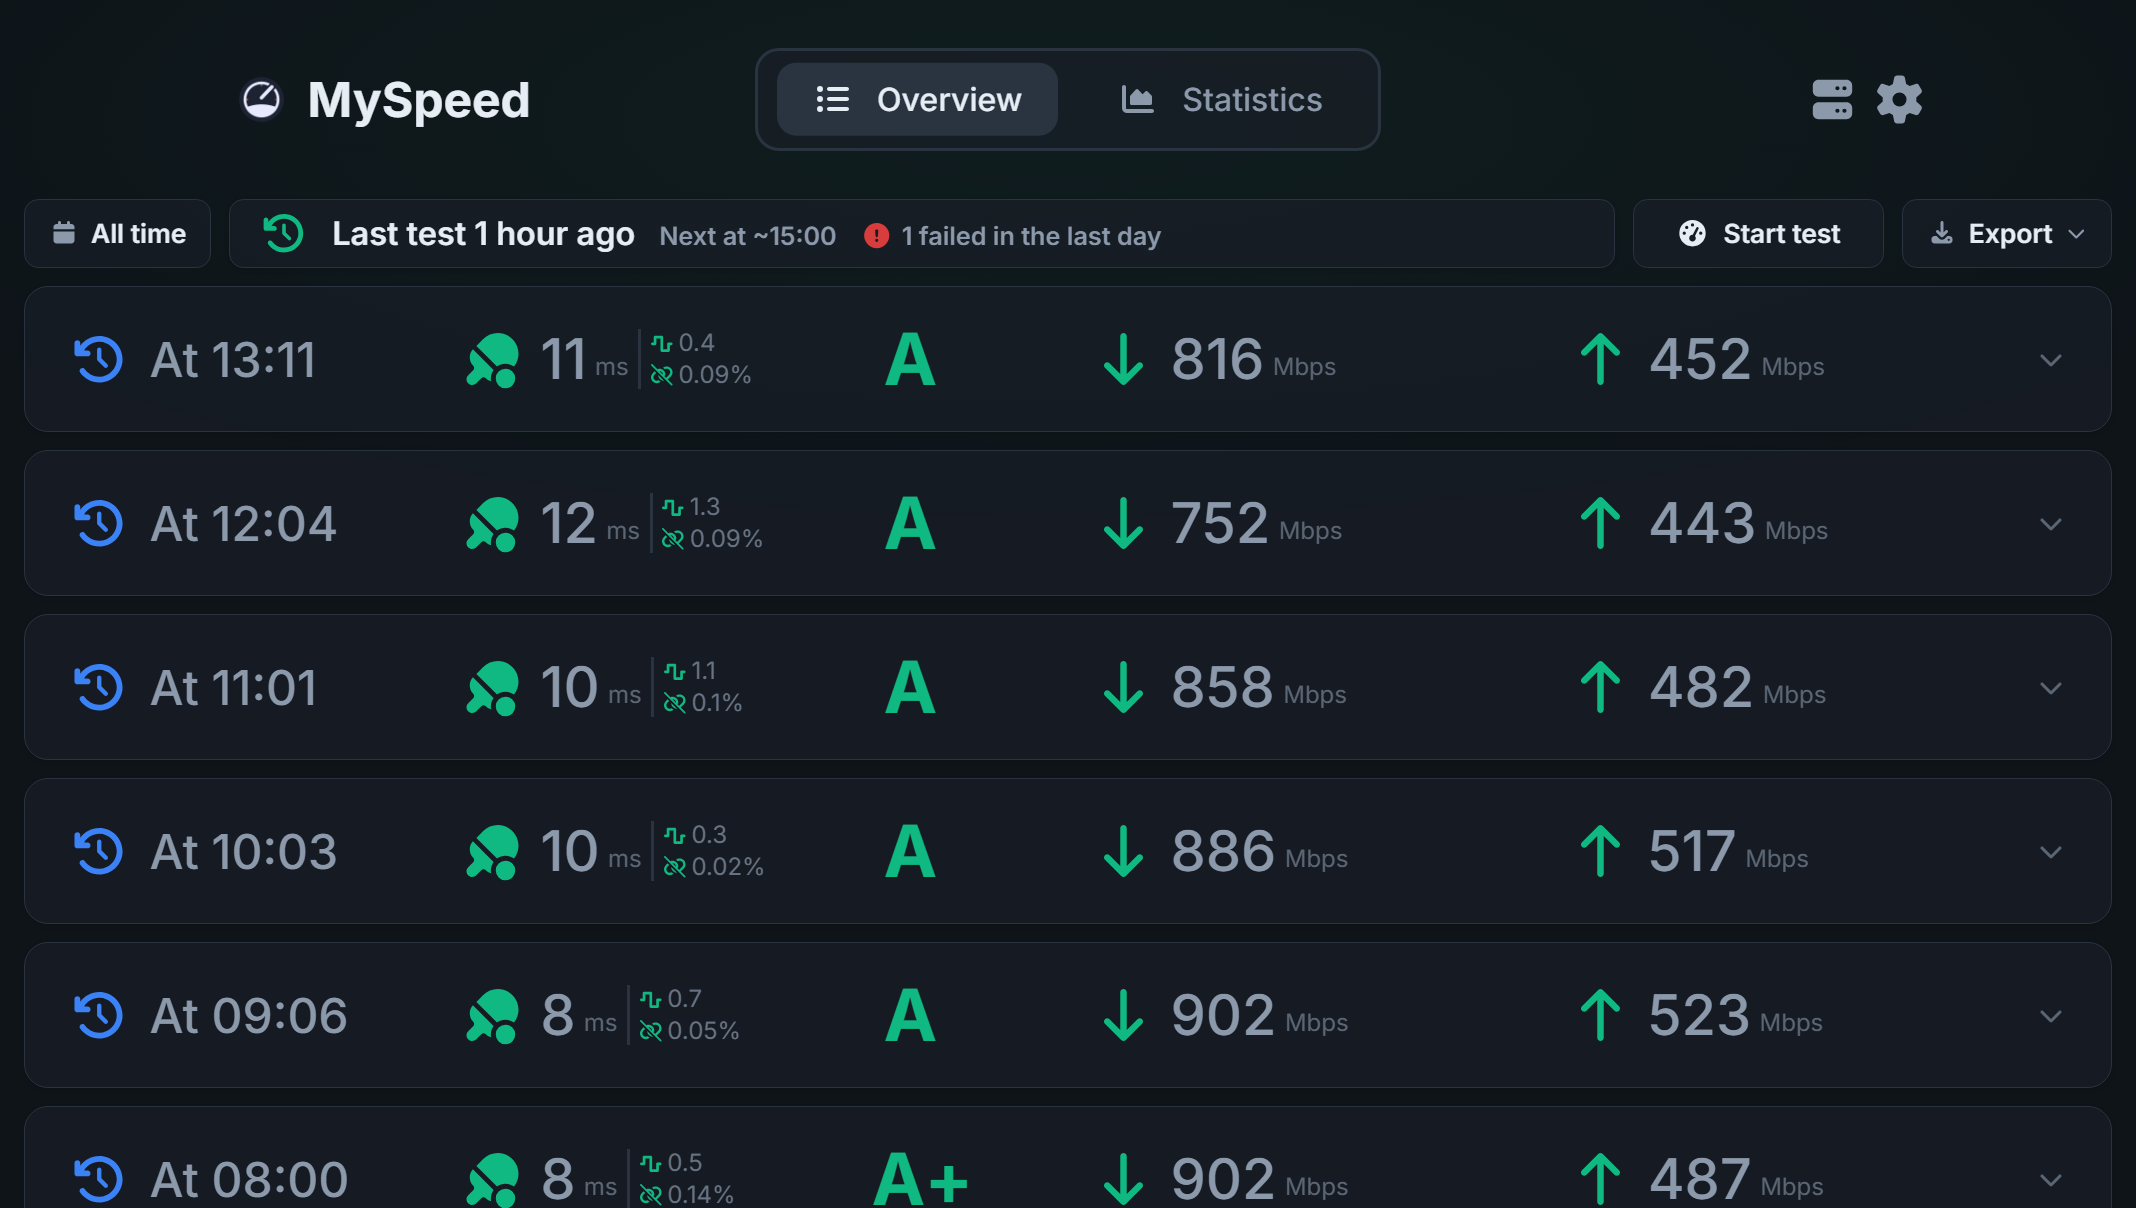
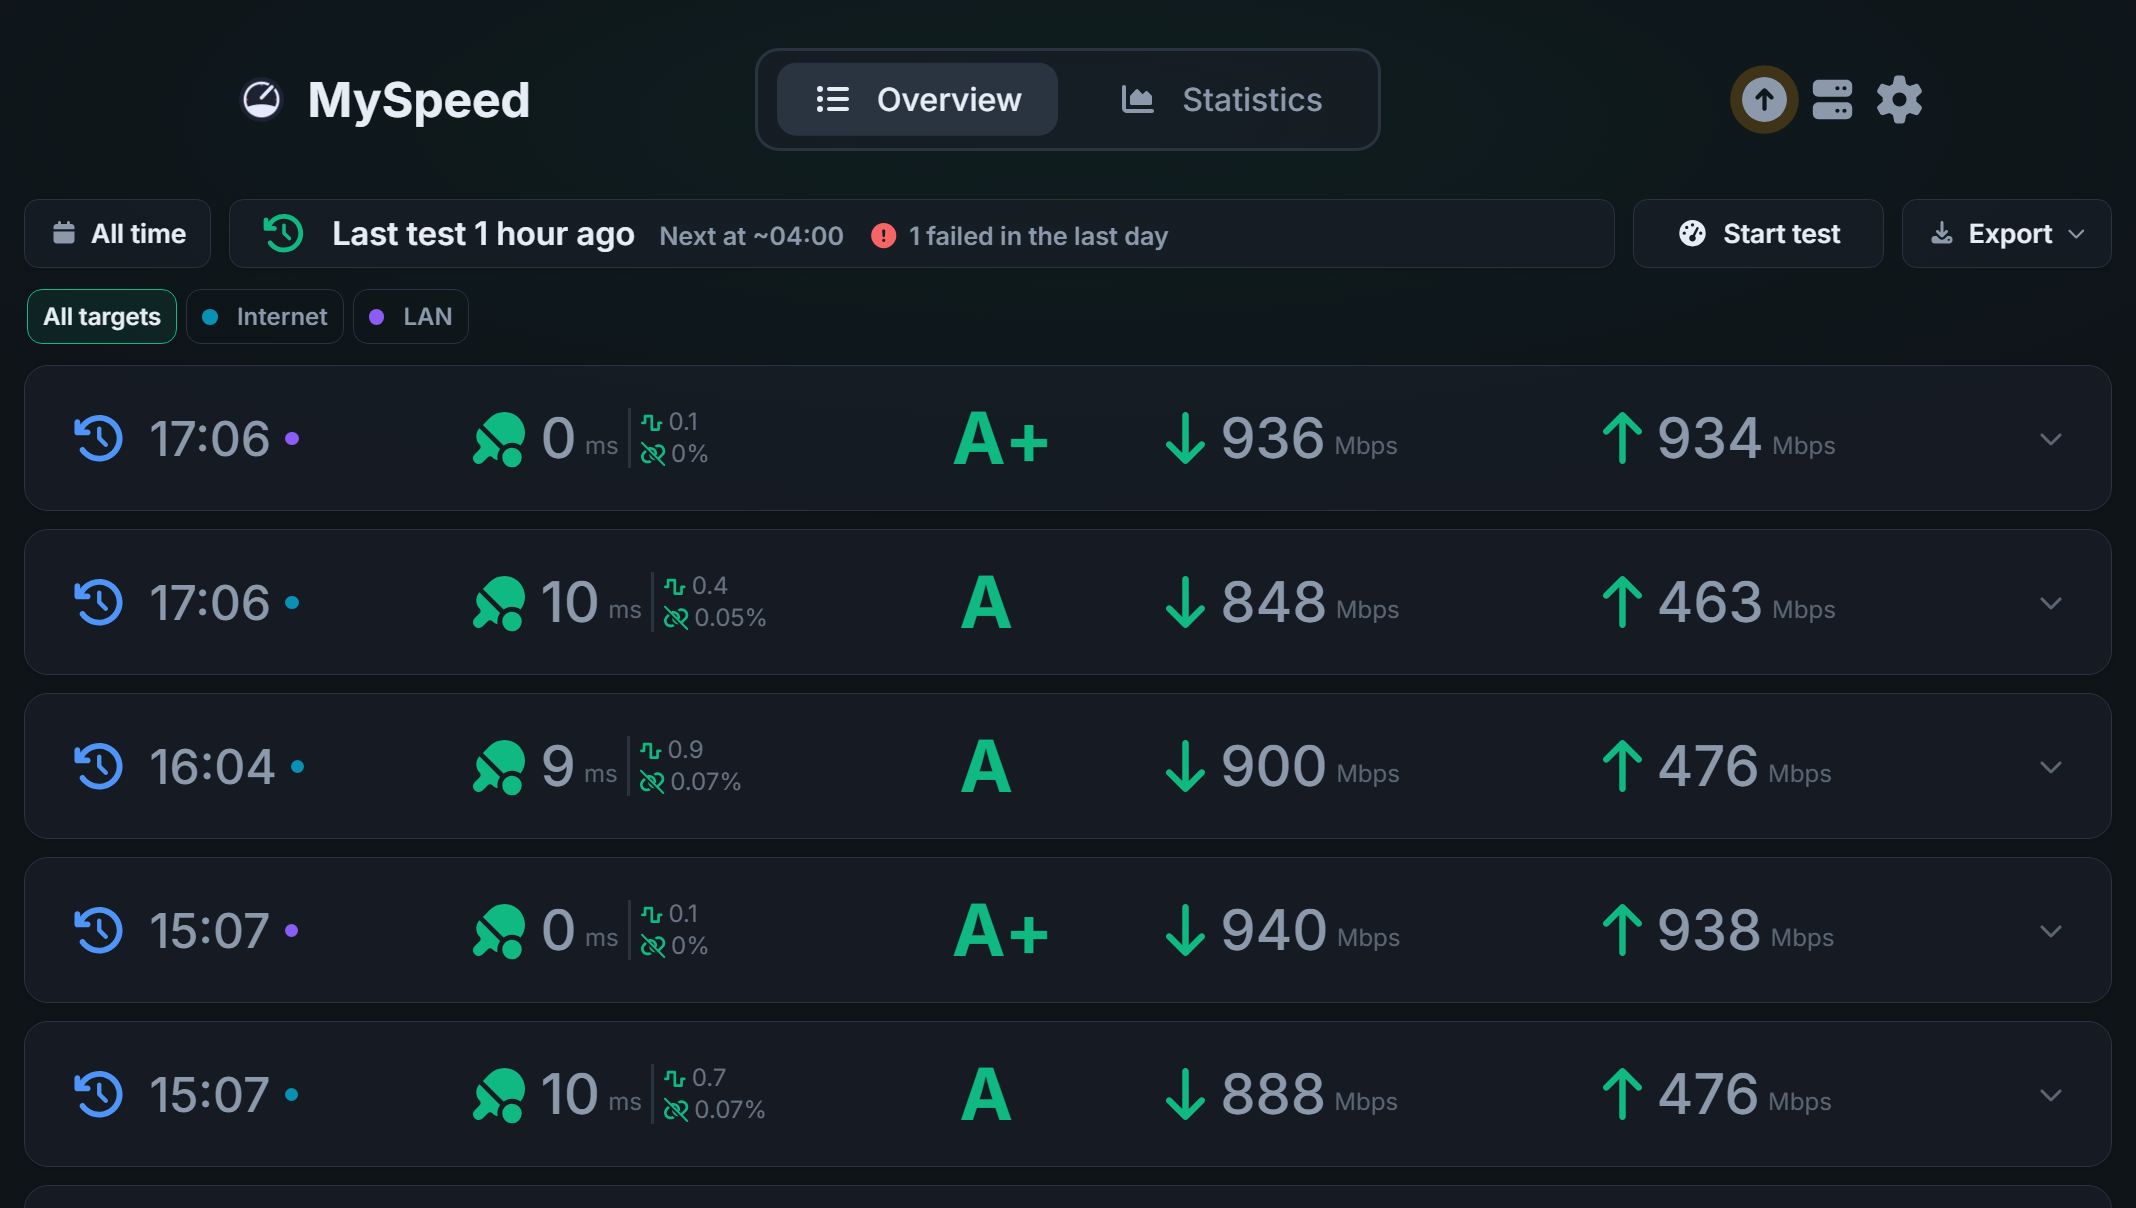
docs: retake the screenshots against a two-target instance
The provider dialog shot was documenting a screen that no longer exists.
"Set speedtest provider" was replaced by the targets manager in 1.5.0, and
it listed three providers where the feature list two sections above it
promises four - the iperf3 line was missing from the picture advertising
it. The statistics shot was a release behind as well: it showed the static
"Changes compared with ..." line that the compare-window selector replaced.

Retaken against two targets rather than one, because that is what the
software is now. The chips, the per-target row dots and the whole
comparison section only exist on a mixed instance, so a one-target shot
would document the release before last again. The seeded pair is an Ookla
internet line - evening dips, two incidents, about one percent failures -
and a steady gigabit iperf3 LAN, which is the contrast the overlay charts
were drawn for.

Two shots are new: the comparison section on its own, since the statistics
page is too tall to read it in and it is what this release is, and the
targets manager in place of the provider dialog. The section headings
follow, in both languages.

The GIF is untouched - re-recording it runs a real speedtest.

diff --git a/README.de.md b/README.de.md
@@ -28,6 +28,7 @@ MySpeed ist eine Speedtest-Analyse-Software, welche die Geschwindigkeit deines I
 - 🔥 Unterstützung für Prometheus und Grafana
 - 🗳 Wähle zwischen Ookla, LibreSpeed, Cloudflare und deinem eigenen iperf3-Server
 - 🎯 Miss mehrere Ziele in einem Durchlauf - das Internet und dein eigenes LAN nebeneinander
+- 📉 Lass dich benachrichtigen, wenn ein Ziel unter das fällt, was es sonst liefert - gemessen am eigenen gleitenden Median
 ### ⬇ Installation
 
 #### 🐳 Docker (empfohlen)
@@ -234,9 +235,13 @@ Passwort-Manager-Export.
 
 <img src=".github/screenshots/homepage-statistics.png" alt="Statistik">
 
-#### Serverauswahl
+#### Zielvergleich
 
-<img src=".github/screenshots/server-selection.png" alt="Serverauswahl">
+<img src=".github/screenshots/target-comparison.png" alt="Zielvergleich">
+
+#### Testziele
+
+<img src=".github/screenshots/targets.png" alt="Testziele">
 
 #### Seite während eines Speedtests
 

diff --git a/README.md b/README.md
@@ -28,6 +28,7 @@ MySpeed is a speed test analysis software that records your internet speed over 
 - 🔥 Support for Prometheus and Grafana
 - 🗳 Choose between Ookla, LibreSpeed, Cloudflare and your own iperf3 server
 - 🎯 Measure against several targets in one round - the internet and your own LAN, side by side
+- 📉 Get alerted when a target falls below what it usually delivers, measured against its own rolling median
 
 ### ⬇ Installation
 
@@ -263,9 +264,13 @@ password manager export.
 
 <img src=".github/screenshots/homepage-statistics.png" alt="Statistics">
 
-#### Server Selection
+#### Target Comparison
 
-<img src=".github/screenshots/server-selection.png" alt="Server Selection">
+<img src=".github/screenshots/target-comparison.png" alt="Target Comparison">
+
+#### Test Targets
+
+<img src=".github/screenshots/targets.png" alt="Test Targets">
 
 #### Page During a Speed Test
 
